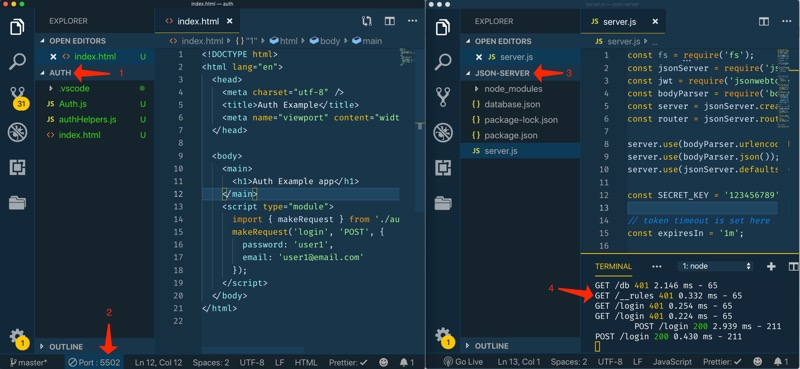
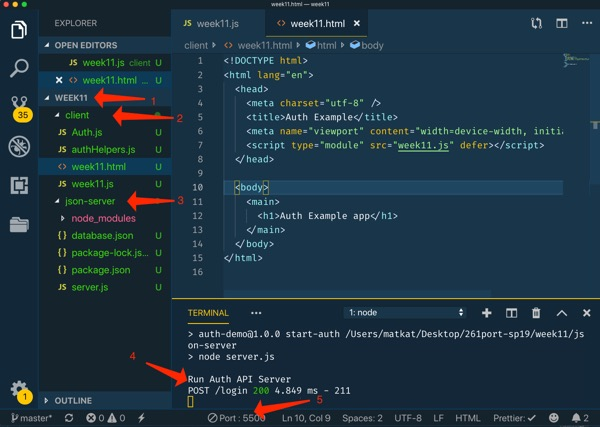
team11 update

diff --git a/ponder/team11.html b/ponder/team11.html
@@ -48,12 +48,15 @@
               <p>
                 We need a few things to successfully complete this activity. The
                 most important thing is a backend server to respond to our
-                authentication requests. Download
+                authentication requests. Create a folder on your computer called
+                <kbd>week11</kbd>. Download
                 <a href="../resources/auth.zip">this node server boilerplate</a
-                >. Expand it then open the folder in your editor. We need to
-                install the dependencies for this application before we can use
-                it, so you need to open a command line prompt and change to the
-                folder that contains the code you downloaded. Then type:
+                >. Expand it into your <kbd>week11</kbd> folder, then open the
+                folder in your editor. We need to install the dependencies for
+                this application before we can use it, so you need to open a
+                command line prompt and change to the folder that contains the
+                server code you downloaded (should be called
+                <kbd>json-server</kbd>). Then type:
               </p>
               <pre><code class="lang-bash">npm install</code></pre>
               <p>Once that finishes you can type:</p>
@@ -185,13 +188,17 @@ async function makeRequest(url, method = 'GET', body = null) {
                 </li>
               </ol>
               <p>
-                Create a folder to contain the client side files for the project
-                called <kbd>Auth</kbd>. Create an <kbd>authHelpers.js</kbd> file
-                and put our <code>makeRequest</code> function in there...export
-                it. Create also an HTML file called <kbd>index.html</kbd> and
-                add the HTML to make a simple page. Add a
-                <code>&lt;script type="module"&gt;</code> block, import in your
-                <code>makeRequest</code> function and test it by trying this:
+                Create a folder inside of your <kbd>week11</kbd> folder called
+                <kbd>client</kbd> to contain the client side files for the
+                project. Create an <kbd>authHelpers.js</kbd> file and put our
+                <code>makeRequest</code> function in there...export it. Create
+                also an HTML file called <kbd>week11.html</kbd> and add the HTML
+                to make a simple page. Create one more file called
+                <kbd>week11.js</kbd> and add it to your html via a
+                <code>script</code> element (We will be using modules so don't
+                forget <code>type="module"</code>). Import in your
+                <code>makeRequest</code> function into the
+                <kbd>week11.js</kbd> file and test it by trying this:
               </p>
               <pre><code class="lang-js">
 makeRequest('login', 'POST', {
@@ -202,11 +209,10 @@ email: 'user1@email.com'
               <div class="callout">
                 <p>
                   Here is a screenshot of my setup for this activity using VS
-                  Code and Live Server. Notice that I have two projects
-                  open...my Auth project (frontend code) and the Json-server
-                  code (backend code). The Auth project I am previewing using
-                  the Live Server extention, and the server code is being run in
-                  the built in command line in VS Code. (Type
+                  Code and Live Server. Notice the file structure. The client
+                  code I am previewing using the Live Server extention
+                  (127.0.0.1:5500), and the server code is being run in the
+                  built in command line in VS Code (127.0.0.1:3000). (Type
                   <kbd>ctrl+~</kbd> to bring up the command line in VS Code)
                 </p>
                 <img
